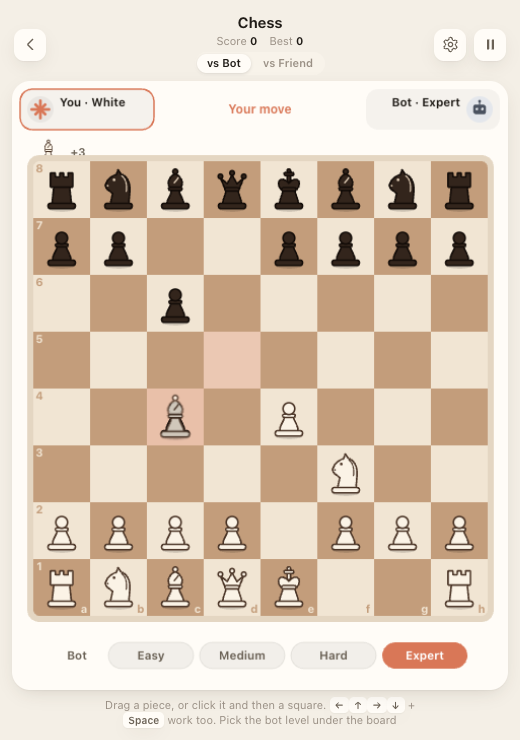
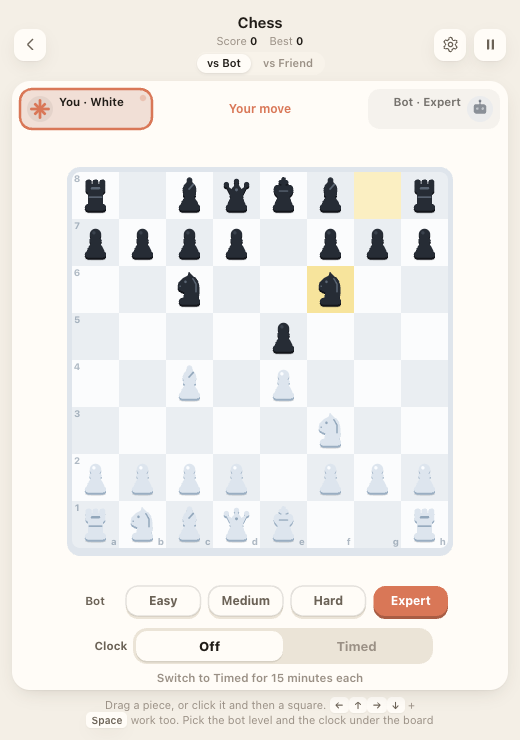
feat: Chess clock Off/Timed switch, clocks on opposite sides, cover board bleeds off the edge, Online page two cards, continuous glass (1.12.7)

diff --git a/web/games/chess.js b/web/games/chess.js
@@ -606,7 +606,7 @@
 
   const LEVELS = ['Easy', 'Medium', 'Hard', 'Expert'];
   const BOT_MS = [400, 700, 1000, 2200];
-  const TIMES = [0, 3, 5, 10, 15];   // clock choices, minutes per side (0 = not timed)
+  const TIMES = [0, 15];   // clock choices: not timed, or 15 minutes for each player
   const BOOK = { '': ['e2e4', 'd2d4', 'c2c4', 'g1f3'], e2e4: ['e7e5', 'c7c5', 'e7e6', 'c7c6'], d2d4: ['d7d5', 'g8f6'], c2c4: ['e7e5', 'g8f6', 'c7c5'], g1f3: ['d7d5', 'g8f6'] };
 
   Ludus.register({
@@ -616,15 +616,18 @@
     _core: core,
     art(ctx, w, h) {
       // checkmate: the white queen stands over the fallen black king on a pale board, side by side at every card shape
-      const big = Math.min(h * 0.74, w * 0.34), cell = big * 0.28, gap = big * 0.98;
-      const qx = w / 2 - gap * 0.45, kx = qx + gap, oy = h * 0.52 + big * 0.12;
-      const cols = Math.ceil((gap + big * 1.4) / cell) | 1, bx = w / 2 - cols * cell / 2;
+      const big = Math.min(h * 0.7, w * 0.34), cell = big * 0.28, gap = big * 0.98;
+      const qx = w / 2 - gap * 0.45, kx = qx + gap, oy = h * 0.4 + big * 0.12;
+      const cols = Math.floor(w * 0.86 / cell), bx = (w - cols * cell) / 2, rows = Math.ceil((h - oy) / cell) + 1;
       const shadow = (x, y, rx, ry) => { ctx.fillStyle = 'rgba(0,0,0,0.18)'; ctx.beginPath(); ctx.ellipse(x, y, rx, ry, 0, 0, Math.PI * 2); ctx.fill(); };
       ctx.save();
-      for (let r = 0; r < 3; r++) for (let c = 0; c < cols; c++) {
+      // the board runs off the bottom edge of the card, with softly rounded top corners
+      ctx.beginPath(); ctx.roundRect(bx, oy, cols * cell, rows * cell + 12, [Math.min(8, cell * 0.5), Math.min(8, cell * 0.5), 0, 0]); ctx.save(); ctx.clip();
+      for (let r = 0; r < rows; r++) for (let c = 0; c < cols; c++) {
         ctx.fillStyle = (r + c) % 2 ? 'rgba(255,255,255,0.62)' : 'rgba(255,255,255,0.4)';
         ctx.fillRect(bx + c * cell, oy + r * cell, cell, cell);
       }
+      ctx.restore();
       shadow(qx, oy + big * 0.38, big * 0.24, big * 0.05); shadow(kx, oy + big * 0.33, big * 0.36, big * 0.06);
       drawPieceVec(ctx, 5, true, qx, oy - big * 0.08, big);
       ctx.translate(kx, oy + big * 0.1); ctx.rotate(Math.PI / 2.3);
@@ -654,7 +657,7 @@
       // clocks: tc = minutes per side (0 = not timed), rem = time left per side in ms. A clock only runs once the first piece has moved.
       // Online, White's choice is used: it rides on every move message, and Black's moves echo it back (an older Ludus that does
       // not echo it makes the game untimed). Each screen only declares its own flag and tells the other with a 'flag' message.
-      const prefTime = () => (TIMES.includes(S.chessTime) ? S.chessTime : 0);
+      const prefTime = () => (S.chessTime ? 15 : 0);
       let tc = 0, tcOk = !on, flagged = false, clockAt = 0, chipPress = null, timeSide = false;
       const rem = { 1: 0, '-1': 0 };
       function setTc(m) { tc = m; rem[1] = rem[-1] = m * 60000; flagged = false; }
@@ -797,12 +800,11 @@
       // ---------- layout ----------
       function layout() {
         const { w, h } = view;
-        const top = 56, capT = 32, capB = 32, lvlH = on ? 0 : 44, rowT = on ? 0 : 36, pad = 12;
+        const top = 56, capT = 32, capB = 32, lvlH = on ? 0 : 44, rowT = on ? 0 : 52, pad = 12;
         const fit = extra => Math.max(12, Math.floor(Math.min(w - pad * 2, h - top - capT - capB - extra - pad) / 8));
         // the clock picker goes beside the board when there is room there, otherwise in a row under the level buttons
         let s = fit(lvlH + rowT);
-        timeSide = !on && (w - 8 * fit(lvlH)) / 2 >= 104;
-        if (timeSide) s = fit(lvlH);
+        timeSide = false;
         const chipH = lvlH + (timeSide ? 0 : rowT), bs = s * 8, block = capT + capB + bs + chipH;
         const y0 = top + Math.max(0, (h - top - pad - block) / 2), by = Math.round(y0 + capT);
         geo = { s, bs, bx: Math.round((w - bs) / 2), by, capTop: y0 + capT / 2 - 1, capBot: by + bs + capB / 2 + 2, chipY: by + bs + capB + 6, chipH };
@@ -843,8 +845,8 @@
         const val = [0, 1, 3, 3, 5, 9], mat = c => { let v = 0; for (const t in have[c]) v += val[t] * have[c][t]; return v; };
         return { byWhite: lost(-1), byBlack: lost(1), diff: mat(1) - mat(-1) };
       }
-      function capRow(list, color, y, maxX, adv, col) {
-        const s = geo.s * 0.46, x0 = geo.bx + 2, groups = Math.max(0, new Set(list).size - 1), room = maxX - x0 - (adv > 0 ? 30 : 0);
+      function capRow(list, color, y, maxX, adv, col, minX) {
+        const s = geo.s * 0.46, x0 = minX == null ? geo.bx + 2 : minX, groups = Math.max(0, new Set(list).size - 1), room = maxX - x0 - (adv > 0 ? 30 : 0);
         let step = s * 0.62, gapG = s * 0.22;
         const need = (list.length - 1) * step + groups * gapG + s;
         if (list.length && need > room) { const k = Math.max(0.35, (room - s) / Math.max(1, need - s)); step *= k; gapG *= k; }
@@ -854,9 +856,9 @@
       }
       // a side's chess clock: a soft pill at the right end of its row, ringed while it runs, red when time is short
       const fmtClock = ms => { const t = Math.ceil(Math.max(0, ms) / 1000); return Math.floor(t / 60) + ':' + String(t % 60).padStart(2, '0'); };
-      function clockPill(col, side, cyRow) {
-        if (!tc) return geo.bx + geo.bs;
-        const ph = 26, pw = 80, x = geo.bx + geo.bs - pw, y = Math.round(cyRow - ph / 2), left = rem[side];
+      function clockPill(col, side, cyRow, atLeft) {
+        if (!tc) return atLeft ? geo.bx + 2 : geo.bx + geo.bs;
+        const ph = 26, pw = 80, x = atLeft ? geo.bx : geo.bx + geo.bs - pw, y = Math.round(cyRow - ph / 2), left = rem[side];
         const running = plies.length > 0 && pos.side === side && phase !== 'end' && !api.ended, low = left < 20000;
         D.roundRect(ctx, x, y + 2, pw, ph, ph / 2); ctx.fillStyle = col.dark ? col.bg : col.bg2; ctx.fill();
         D.roundRect(ctx, x, y, pw, ph, ph / 2); ctx.fillStyle = col.dark ? col.surface2 : col.surface; ctx.fill();
@@ -869,7 +871,7 @@
         ctx.beginPath(); ctx.moveTo(cx, cy); ctx.lineTo(cx + Math.cos(a) * r * 0.62, cy + Math.sin(a) * r * 0.62); ctx.stroke();
         ctx.beginPath(); ctx.arc(cx, cy, 1.6, 0, Math.PI * 2); ctx.fillStyle = '#557891'; ctx.fill();
         D.text(ctx, fmtClock(left), x + pw - 12, cy + 0.5, 13.5, low && plies.length ? col.bad : running ? col.ink : col.ink2, 800, 'right');
-        return x;
+        return atLeft ? x + pw : x;
       }
       function tickClocks(dt, now) {
         const real = Math.min(250, now - (clockAt || now)); clockAt = now;
@@ -917,38 +919,35 @@
         drawTimePicker(col);
       }
       // Timed or not: a soft segmented control. Under the level buttons, or standing beside the board when there is room.
-      const TIME_LABELS = ['Off', '3 min', '5 min', '10 min', '15 min'];
+      const TIME_LABELS = ['Off', 'Timed'];
+      let knob = -1;   // 0 = Off, 1 = Timed; glides toward the choice
       function drawTimePicker(col) {
-        const { bx, bs, by, chipY } = geo, cur = TIMES.indexOf(prefTime());
-        let rects;
-        if (timeSide) {
-          const sw = 72, sh = 30, x = bx + bs + 14, y0 = by + bs - sh * TIMES.length - 6;
-          D.text(ctx, 'Clock', x + sw / 2, y0 - 14, 11.5, col.ink2, 700);
-          rects = TIMES.map((m, i) => ({ x, y: y0 + i * sh, w: sw, h: sh }));
-        } else {
-          const tw = Math.min(bs, 340), lab = 46, sw = (tw - lab) / TIMES.length, sh = 28, x0 = bx + (bs - tw) / 2 + lab, y = chipY + 42;
-          D.text(ctx, 'Clock', x0 - lab / 2 - 2, y + sh / 2 + 3, 11.5, col.ink2, 700);
-          rects = TIMES.map((m, i) => ({ x: x0 + i * sw, y: y + 3, w: sw, h: sh }));
-        }
-        const f = rects[0], l = rects[rects.length - 1], pad = 3;
-        D.roundRect(ctx, f.x - pad, f.y - pad, l.x + l.w - f.x + pad * 2, l.y + l.h - f.y + pad * 2, 14);
+        const nowK = performance.now(), dt = Math.min(0.05, (nowK - (drawTimePicker.t || nowK)) / 1000); drawTimePicker.t = nowK;
+        const { bx, bs, chipY } = geo, cur = TIMES.indexOf(prefTime());
+        const tw = Math.min(bs, 340), lab = 46, sw = (tw - lab) / 2, sh = 30, x0 = bx + (bs - tw) / 2 + lab, y = chipY + 42;
+        D.text(ctx, 'Clock', x0 - lab / 2 - 2, y + sh / 2 + 3, 11.5, col.ink2, 700);
+        const rects = [0, 1].map(i => ({ x: x0 + i * sw, y: y + 3, w: sw, h: sh }));
+        if (knob < 0 || api.reduceMotion) knob = cur; else knob += (cur - knob) * Math.min(1, (dt || 0.016) * 14);
+        if (Math.abs(cur - knob) < 0.002) knob = cur;
+        const pad = 3;
+        D.roundRect(ctx, rects[0].x - pad, y, sw * 2 + pad * 2, sh + pad * 2, 14);
         ctx.fillStyle = col.dark ? col.bg : col.bg2; ctx.fill();
-        rects.forEach((r, i) => {
-          const on1 = i === cur;
-          if (on1) {
-            D.roundRect(ctx, r.x, r.y + 1.5, r.w, r.h, 11); ctx.fillStyle = col.dark ? 'rgba(0,0,0,0.35)' : 'rgba(32,28,23,0.1)'; ctx.fill();
-            D.roundRect(ctx, r.x, r.y, r.w, r.h, 11); ctx.fillStyle = col.dark ? col.surface2 : col.surface; ctx.fill();
-          }
-          D.fitText(ctx, TIME_LABELS[i], r.x + r.w / 2, r.y + r.h / 2 + 0.5, r.w - 6, 12, on1 ? col.ink : col.ink3, on1 ? 800 : 700, 9);
-          chips.push({ x: r.x, y: r.y, w: r.w, h: r.h, i, time: true });
+        const kx = rects[0].x + knob * sw, r = rects[0];
+        D.roundRect(ctx, kx, r.y + 1.5, sw, sh, 11); ctx.fillStyle = col.dark ? 'rgba(0,0,0,0.35)' : 'rgba(32,28,23,0.1)'; ctx.fill();
+        D.roundRect(ctx, kx, r.y, sw, sh, 11); ctx.fillStyle = col.dark ? col.surface2 : col.surface; ctx.fill();
+        rects.forEach((q, i) => {
+          const hot = Math.abs(i - knob) < 0.5;
+          D.fitText(ctx, TIME_LABELS[i], q.x + q.w / 2, q.y + q.h / 2 + 0.5, q.w - 6, 13, hot ? col.ink : col.ink3, hot ? 800 : 700, 9);
+          chips.push({ x: q.x, y: q.y, w: q.w, h: q.h, i, time: true });
         });
+        D.text(ctx, cur ? 'Timed: 15 minutes for each player' : 'Switch to Timed for 15 minutes each', bx + bs / 2, y + sh + 20, 11.5, cur ? col.ink2 : col.ink3, 600);
       }
       function pickTime(i) {
         const m = TIMES[i];
         if (m === prefTime()) return;
         S.chessTime = m; Ludus.save(); api.sfx('click');
         if (!plies.length && phase === 'play') setTc(m);
-        else api.toast(m ? 'Next game: ' + m + ' min each' : 'Next game: not timed');
+        else api.toast(m ? 'Next game: timed, 15 min each' : 'Next game: not timed');
       }
       function pickLevel(i) {
         S.chessLevel = i; Ludus.save();
@@ -971,7 +970,7 @@
         // captured pieces next to each player
         tickClocks(dt, now);
         const cap = captured(), mineTook = myColor === 1 ? cap.byWhite : cap.byBlack, theyTook = myColor === 1 ? cap.byBlack : cap.byWhite;
-        capRow(theyTook, myColor, geo.capTop, clockPill(col, -myColor, geo.capTop) - 8, -cap.diff * myColor, col);
+        { const lx = clockPill(col, -myColor, geo.capTop, true); capRow(theyTook, myColor, geo.capTop, geo.bx + bs - 2, -cap.diff * myColor, col, tc ? lx + 8 : null); }
         capRow(mineTook, -myColor, geo.capBot, clockPill(col, myColor, geo.capBot) - 8, cap.diff * myColor, col);
         // frame and squares
         D.roundRect(ctx, bx - 5, by - 5, bs + 10, bs + 13, 13);

diff --git a/web/app.js b/web/app.js
@@ -51,8 +51,9 @@
     root.style.setProperty('--accent-soft', S.accent + '26');
     root.classList.toggle('reduce', !!S.reduceMotion);
     L.native('theme', { mode: S.theme });
-    // On Auto the Mac's own panel material shows through; a picked Light or Dark paints its own solid background.
-    root.classList.toggle('transparent', !!window.__LUDUS_NATIVE__ && S.theme === 'system');
+    // In the Mac app the panel's own material shows through in every look (the popover follows Light or Dark too), so the
+    // arrow under the menu bar icon and the panel are one continuous surface.
+    root.classList.toggle('transparent', !!window.__LUDUS_NATIVE__);
     if (view === 'home') drawCards();
   }
   sysDark.addEventListener('change', applyTheme);
@@ -128,8 +129,8 @@
   function renderOnlinePage(grid) {
     // The blocks (heading, name, last party, Create room, joining) share the page's full height with equal gaps
     // between them, so there is no empty band at the bottom; the panel itself keeps the same size as every other tab.
-    const page = el('div', 'online-page'), head = el('div', 'op-group op-head'), join = el('div', 'op-group');
-    page.appendChild(head); const mid = { appendChild: e => page.appendChild(e) };
+    const page = el('div', 'online-page'), head = el('div', 'op-group op-head'), start = el('div', 'op-card'), join = el('div', 'op-card');
+    page.appendChild(head); const mid = { appendChild: e => start.appendChild(e) };
     head.appendChild(el('div', 'op-title', 'Play online'));
     const steps = el('ol', 'op-steps');   // three short steps instead of a long sentence; each wraps to two lines when narrow
     ['Create or join', 'Share the code', 'Host picks games'].forEach((t, i) => { const li = el('li'); li.appendChild(el('span', 'op-dot', String(i + 1))); li.appendChild(el('span', '', t)); steps.appendChild(li); });
@@ -140,11 +141,12 @@
     const nm = el('input'); nm.type = 'text'; nm.maxLength = 10; nm.placeholder = 'Player'; nm.value = L.net.cleanName(S.onlineName, ''); nm.autocomplete = 'off'; nm.spellcheck = false; nm.setAttribute('aria-label', 'Your name');
     nm.addEventListener('input', () => { S.onlineName = L.net.cleanName(nm.value, ''); L.save(); });
     f.appendChild(nm); mid.appendChild(f);
-    if (S.party && S.party.code) mid.appendChild(partyCard(S.party));
+    if (S.party && S.party.code) page.appendChild(partyCard(S.party));
+    page.appendChild(start);
     const mk = el('button', 'btn primary', 'Create room'); mk.type = 'button'; mk.id = 'opCreate';
     mk.onclick = () => { L.sfx('click'); createFlexRoom(); };
     mid.appendChild(mk);
-    join.appendChild(el('div', 'op-or', 'or join a room'));
+    join.appendChild(el('span', 'field-label', 'Or join a room'));
     const code = el('input', 'code-input'); code.type = 'text'; code.maxLength = 300; code.placeholder = 'K7M2Q'; code.id = 'opCode';
     code.autocomplete = 'off'; code.spellcheck = false; code.autocapitalize = 'characters'; code.setAttribute('aria-label', 'Room code, invite or link');
     const msg = el('div', 'lobby-error', ''); msg.setAttribute('role', 'alert');
@@ -154,13 +156,13 @@
     const jb = el('button', 'btn primary', 'Join'); jb.type = 'button'; jb.id = 'opJoin'; jb.onclick = go;
     const jr = el('div', 'join-row'); jr.appendChild(code); jr.appendChild(jb);   // the code and the Join button side by side
     join.appendChild(jr); join.appendChild(msg);
-    join.appendChild(el('p', 'lobby-note', 'Code, invite message or ludus:// link. Needs the internet.'));
+    const note = el('p', 'lobby-note', 'Code, invite message or ludus:// link. Needs the internet.');
     if (!L.conn.shown) {   // offline: the name stays editable, everything that needs the internet is dimmed and does nothing
       page.classList.add('op-offline');
       [mk, jb, code].forEach(x => { x.disabled = true; });
       page.querySelectorAll('.party-card button').forEach(x => { x.disabled = true; });
     }
-    page.appendChild(join);
+    page.appendChild(join); page.appendChild(note);
     grid.appendChild(page);
   }
   // The last room you were in: an orange "Last party · <game>" tag on top, then the players as small name chips (a

diff --git a/web/style.css b/web/style.css
@@ -496,7 +496,7 @@ svg { display: block; }
 @media (prefers-reduced-motion: reduce) { .online-chip .dot, .conn-chip i, .code-ch, .seat.on { animation: none !important; } }
 
 /* Online page and tournament lobby */
-.online-page { grid-column: 1 / -1; display: flex; flex-direction: column; justify-content: space-between; gap: 8px; max-width: 360px; width: 100%; margin: 0 auto; padding: 4px 0 2px; text-align: center; }
+.online-page { grid-column: 1 / -1; display: flex; flex-direction: column; justify-content: flex-start; gap: 12px; max-width: 360px; width: 100%; margin: 0 auto; padding: 4px 0 2px; text-align: center; }
 /* the Online page fills the panel's height (the panel never changes size): its groups spread out instead of leaving an empty band */
 .grid:has(> .online-page) { grid-template-rows: 1fr; align-content: stretch; }
 .op-group { display: flex; flex-direction: column; gap: 10px; }
@@ -656,3 +656,13 @@ svg { display: block; }
 .sug-more { font-size: 11px; color: var(--ink-3); font-weight: 600; }
 @keyframes sug-in { from { transform: scale(0.96); opacity: 0; } to { transform: none; opacity: 1; } }
 @media (prefers-reduced-motion: reduce) { .sug-card { animation: none; } }
+
+/* Online page: two clear cards (start a room, join a room) on one 12px rhythm, top-aligned */
+.op-card { display: flex; flex-direction: column; gap: 12px; background: var(--box); box-shadow: inset 0 0 0 1px var(--box-line); border-radius: 16px; padding: 14px; text-align: left; }
+.op-card .field { display: flex; flex-direction: column; gap: 8px; }
+.op-card .field-label { margin: 0; padding: 0; }
+.op-card input { background: var(--surface); }
+.online-page .op-card input { height: 46px; }
+.online-page .op-card #opCreate { min-height: 50px; }
+.online-page .op-card .join-row input.code-input, .online-page .op-card .join-row .btn { height: 50px; }
+.online-page > .lobby-note { margin: 0; }

diff --git a/CHANGELOG.md b/CHANGELOG.md
@@ -5,6 +5,10 @@ All notable changes to Ludus. Versions follow the app's version number (`Info.pl
 
 ## 1.12.7 (2026-10-27)
 
+- Chess clock: one Timed switch (15 minutes for each player) that glides between Off and Timed; the two clocks sit on opposite sides of the board.
+- Online page: two clear cards (start a room, join a room) with one 12px rhythm.
+- Mac: the panel and the arrow under the menu bar icon are one continuous glass surface in Auto, Light and Dark.
+- Chess cover: the board runs off the bottom edge with softly rounded top corners.
 - Chomp cover redrawn: open-mouthed chomper, dot trail, power dot and a clear ghost.
 
 ## 1.12.6 (2026-10-27)
